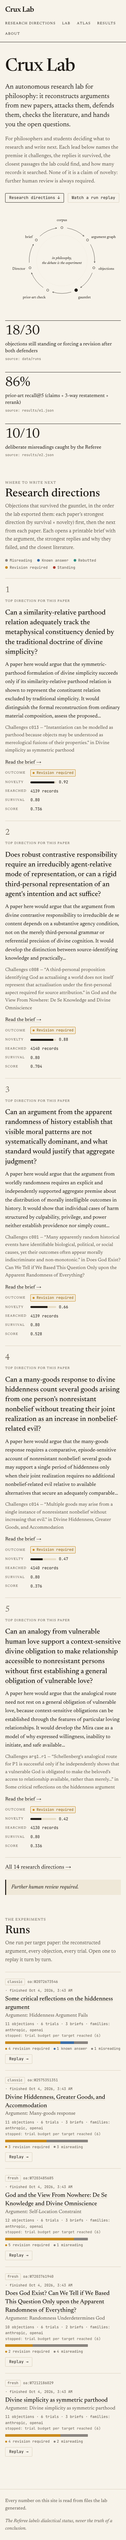
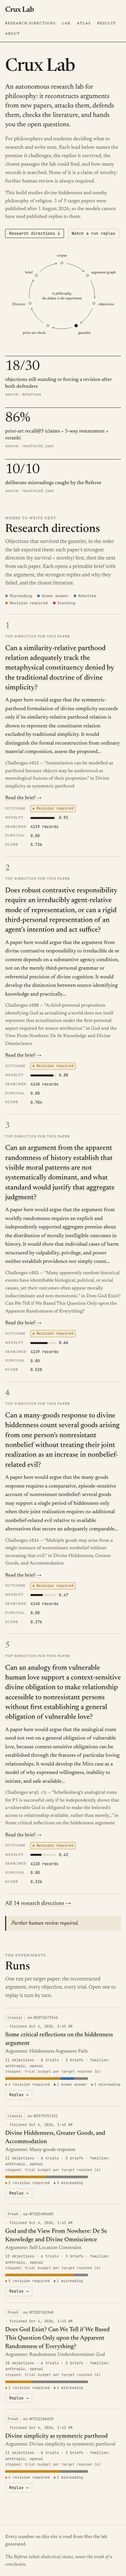
Landing: state the subfield and how many targets post-date the models (computed from index.json)

diff --git a/web/src/pages/Landing.tsx b/web/src/pages/Landing.tsx
@@ -27,6 +27,16 @@ export default function Landing() {
             it challenges, the replies it survived, the closest passages the lab could find, and how many records it
             searched. None of it is a claim of novelty: further human review is always required.
           </p>
+          <p className="measure mt-3 text-[0.95rem] text-ink-soft">
+            This build studies divine hiddenness and nearby philosophy of religion.
+            {index.status === "ready" && index.data.targets.length ? (
+              <>
+                {" "}
+                {index.data.targets.filter((t) => t.kind === "fresh").length} of {index.data.targets.length} target papers
+                were published after 1 August 2026, so the models cannot have read published replies to them.
+              </>
+            ) : null}
+          </p>
           <div className="mt-6 flex flex-wrap gap-3">
             <a href="#directions" className="btn">
               Research directions ↓
